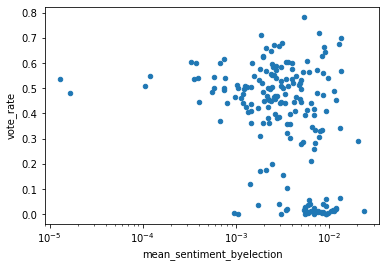
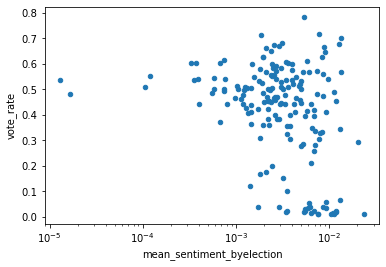
add xgboost & sentiment

diff --git a/index.md b/index.md
@@ -98,9 +98,10 @@ For each type, we look at one example: Dianne Feinstein for type 0 and Allen Buc
 
 We further explore if the election results can be predicted from the quotation data. We use the **monthly aggregated quotation feature vectors** used in the clustering analysis above. Besides, party affiliation can have a significant effect on the result. For senate candidates in each state's election, we find the **vote rate of their affiliated party** in the previous presidential election[2]. This party vote rate reflects the overall ideology of the state. We concatenate this voting feature to the quotation feature vectors and use this 11-dimensional vector for predicting the election result.
 
-**TO DO: add results**
+We use XGBoost classifier. First, we calculate the accuracy and precision on the training datasets by 5 fold cross-validation. Cross-Validated training precision is 0.73 (+/- 0.35) and  cross-validated training recall is 0.69 (+/- 0.23). Then, we fit our model in the training data and calculate accuracy and F1 score on the test data. We obtain accuracy 0.9069767441860465 and f1 score 0.9 on the test data.
 
-## Sentiment of quotations cannot reflect support rate.
+
+## Sentiment of quotations reflect support rate.
 
 For quotations mentioning senate candidates, they contain attitudes (positive or negative) of the speaker toward the mentioned politicians. We can use the **VADER** sentiment analysis package to extract such attitudes. For instance, let's look at how sentiments toward Bernie Sanders changes over time.
 
@@ -108,13 +109,13 @@ For quotations mentioning senate candidates, they contain attitudes (positive or
   <img src="figures/sanders_senti.png" />
 </p>
 
-To examine whether sentiments in quotations can represent support rate, we can calculate the **average sentiment score of quotations** mentioning each candidate **within a year before the election**. This can be visualized by scatter plots of average sentiment score and final vote rate:
+To examine whether sentiments in quotations can represent support rate, we can calculate the **average sentiment score of quotations** mentioning each candidate **within a year before the election**. We discard those which have low vote_rate (< 1%). The relation can be visualized by scatter plots of average sentiment score and final vote rate:
 
 <p align="center">
   <img src="figures/senti_vs_vote.png" />
 </p>
 
-The Pearson Correlation is -0.11, with P-Value 0.09 (> 0.05). As a result, there is no significant correlation between them. **Sentiment of quotations toward politicians can not truly reflect the support rate!** This may be counter-intuitive. However, in the 2016 U.S. presidential election, Donald Trump won the presidential election while most news agencies did not favor him. Nowadays, news articles fail to convey the ideas of most people. 
+The Pearson Correlation is -0.11, with P-Value 0.03 (< 0.05), which is statistically significant. Such observation seems to be contrary to the intuition that more favorable people will recieve more votes. There are two possible explaination for this: (1) the mention data are limited and the correlation here is spurious. (2) Those candidates who adopt a middle way campaign strategy will be likely to receive more votes from both sides.  
 
 ## Reference:
 
